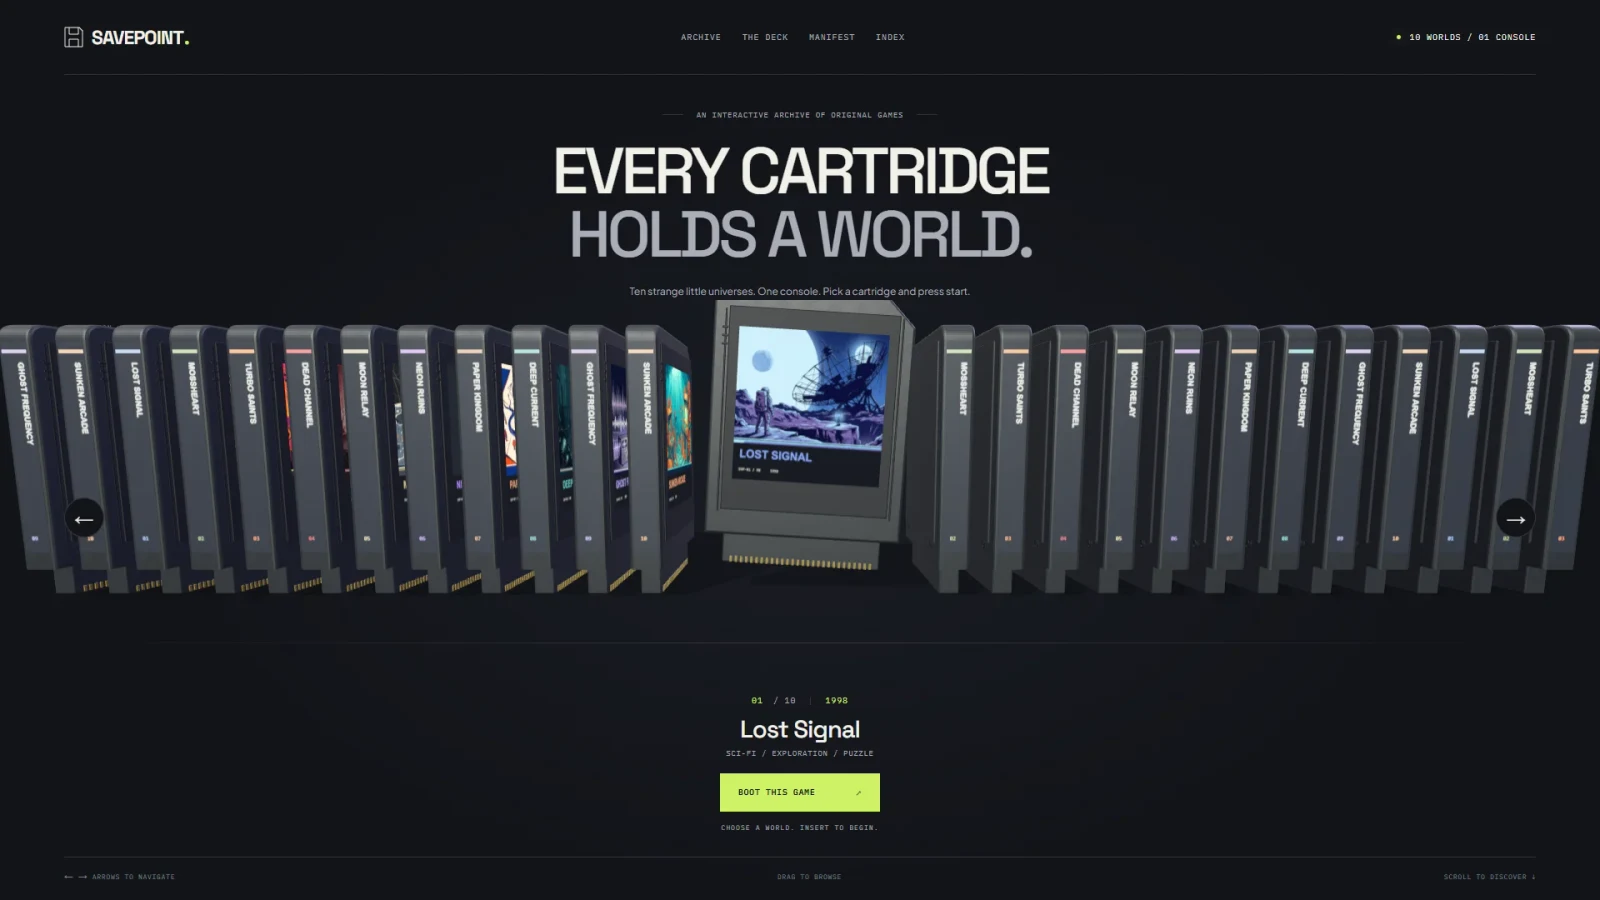
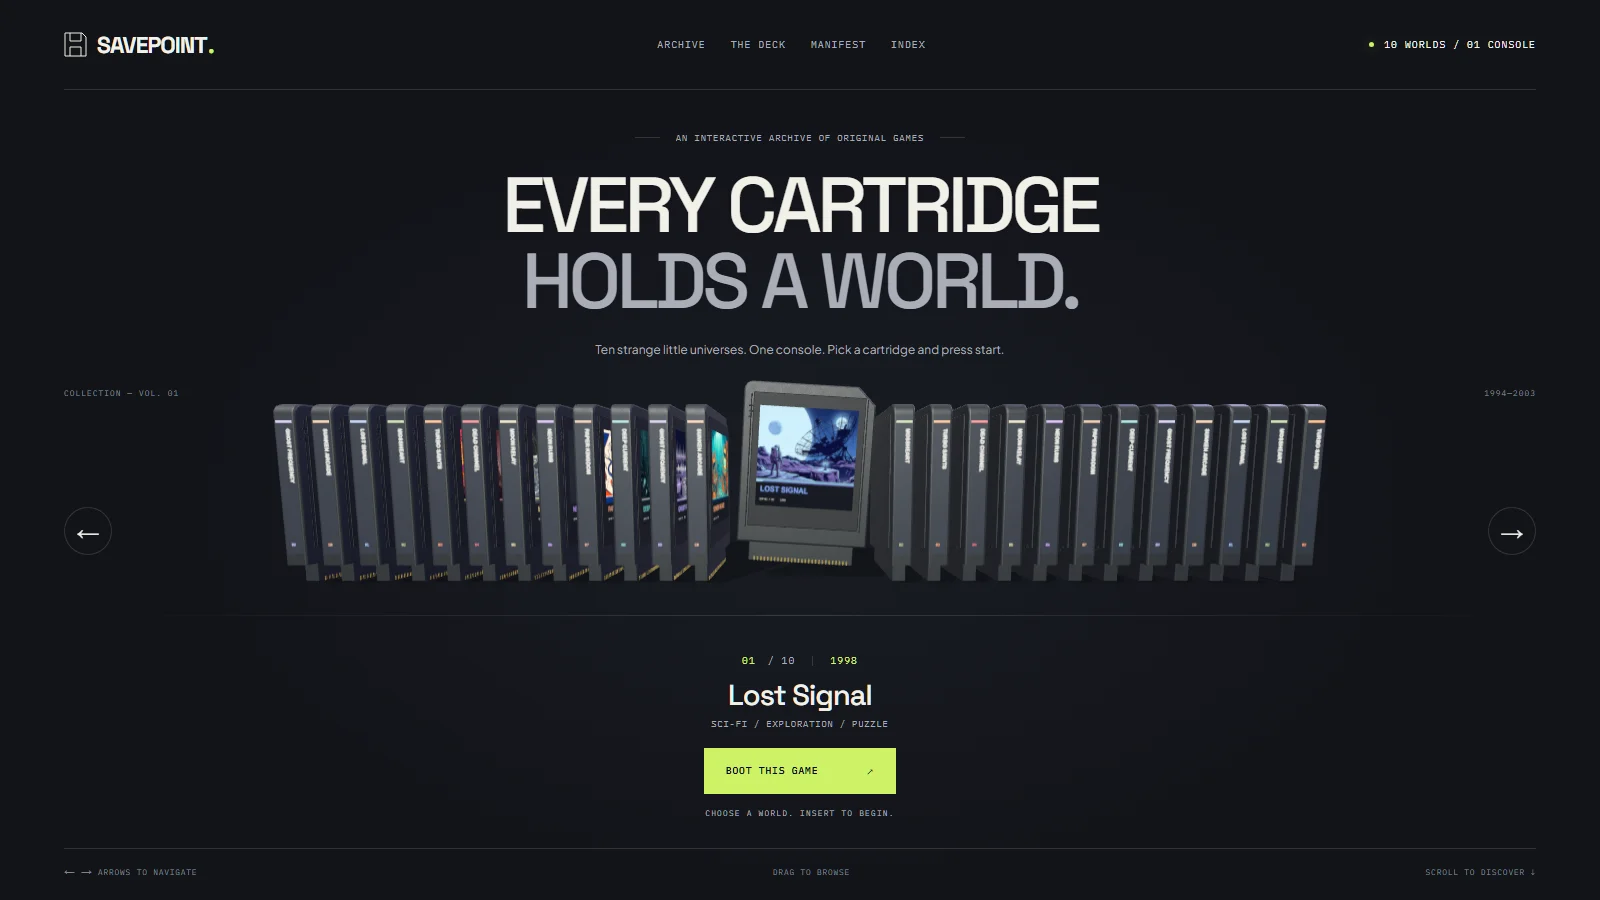
Adjust camera framing and FOV in Savepoint archive scene
Increase desktop camera field of view from 34 to 38 and raise the camera look-at target to improve archive composition. Refresh template preview images and reference documentation to reflect the updated framing.

diff --git a/src/app/(savepoint)/savepoint/lib/archiveSceneEngine.ts b/src/app/(savepoint)/savepoint/lib/archiveSceneEngine.ts
@@ -34,9 +34,9 @@ export function createArchiveScene(canvas: HTMLCanvasElement, onProjection: (rec
     renderer.shadowMap.type = THREE.PCFShadowMap;
     const scene = new THREE.Scene();
     scene.fog = new THREE.Fog(0x121419, 9, 16);
-    const camera = new THREE.PerspectiveCamera(34, 1, .05, 100);
+    const camera = new THREE.PerspectiveCamera(38, 1, .05, 100);
     camera.position.set(0, .85, 3.2);
-    camera.lookAt(0, .52, 0);
+    camera.lookAt(0, .60, 0);
     const environmentGenerator = new THREE.PMREMGenerator(renderer), room = new RoomEnvironment();
     const environment = environmentGenerator.fromScene(room, .04);
     scene.environment = environment.texture;
@@ -137,7 +137,7 @@ export function createArchiveScene(canvas: HTMLCanvasElement, onProjection: (rec
         const r = canvas.getBoundingClientRect();
         renderer.setSize(r.width, r.height, false);
         camera.aspect = r.width / r.height;
-        camera.fov = r.width < 600 ? 45 : 34;
+        camera.fov = r.width < 600 ? 45 : 38;
         camera.updateProjectionMatrix();
         if (phase() === 'screen-expanding' || phase() === 'returning' || phase() === 'game-detail')
             updateProjection(expansion);
@@ -241,7 +241,7 @@ export function createArchiveScene(canvas: HTMLCanvasElement, onProjection: (rec
             timeline = gsap.timeline({ onComplete: () => { deck.group.visible = false; store.getState().setPhase('archive'); rail(); } });
             timeline.to(motion, { p: 1, duration: reduced.matches ? .01 : .55, onUpdate: () => interpolatePose(activeCart.group, from, to, smoothstep01(motion.p)) });
             timeline.to(deck.group.position, { y: -3, duration: .4 }, '<');
-            timeline.to(camera.position, { x: 0, y: .85, z: 3.2, duration: .5, onUpdate: () => camera.lookAt(0, .52, 0) }, '<');
+            timeline.to(camera.position, { x: 0, y: .85, z: 3.2, duration: .5, onUpdate: () => camera.lookAt(0, .60, 0) }, '<');
             if (pushHistory) {
                 const url = new URL(location.href);
                 url.searchParams.delete('game');
@@ -260,7 +260,7 @@ export function createArchiveScene(canvas: HTMLCanvasElement, onProjection: (rec
         const shelf: Pose = { position: new THREE.Vector3(0, .25, .32), quaternion: new THREE.Quaternion().setFromEuler(new THREE.Euler(0, 0, -.061)) };
         timeline.to(motion, { t: 1, duration: reduced.matches ? .01 : .7, onUpdate: () => interpolatePose(activeCart.group, above, shelf, smoothstep01(motion.t)) });
         timeline.to(deck.group.position, { y: -3, duration: .6 }, '<');
-        timeline.to(camera.position, { x: 0, y: .85, z: 3.2, duration: .6, onUpdate: () => camera.lookAt(0, .52, 0) }, '<');
+        timeline.to(camera.position, { x: 0, y: .85, z: 3.2, duration: .6, onUpdate: () => camera.lookAt(0, .60, 0) }, '<');
         const u = new URL(location.href);
         u.searchParams.delete('game');
         if (pushHistory)

diff --git a/public/copy/savepoint.md b/public/copy/savepoint.md
@@ -896,9 +896,9 @@ export function createArchiveScene(canvas: HTMLCanvasElement, onProjection: (rec
     renderer.shadowMap.type = THREE.PCFShadowMap;
     const scene = new THREE.Scene();
     scene.fog = new THREE.Fog(0x121419, 9, 16);
-    const camera = new THREE.PerspectiveCamera(34, 1, .05, 100);
+    const camera = new THREE.PerspectiveCamera(38, 1, .05, 100);
     camera.position.set(0, .85, 3.2);
-    camera.lookAt(0, .52, 0);
+    camera.lookAt(0, .60, 0);
     const environmentGenerator = new THREE.PMREMGenerator(renderer), room = new RoomEnvironment();
     const environment = environmentGenerator.fromScene(room, .04);
     scene.environment = environment.texture;
@@ -999,7 +999,7 @@ export function createArchiveScene(canvas: HTMLCanvasElement, onProjection: (rec
         const r = canvas.getBoundingClientRect();
         renderer.setSize(r.width, r.height, false);
         camera.aspect = r.width / r.height;
-        camera.fov = r.width < 600 ? 45 : 34;
+        camera.fov = r.width < 600 ? 45 : 38;
         camera.updateProjectionMatrix();
         if (phase() === 'screen-expanding' || phase() === 'returning' || phase() === 'game-detail')
             updateProjection(expansion);
@@ -1103,7 +1103,7 @@ export function createArchiveScene(canvas: HTMLCanvasElement, onProjection: (rec
             timeline = gsap.timeline({ onComplete: () => { deck.group.visible = false; store.getState().setPhase('archive'); rail(); } });
             timeline.to(motion, { p: 1, duration: reduced.matches ? .01 : .55, onUpdate: () => interpolatePose(activeCart.group, from, to, smoothstep01(motion.p)) });
             timeline.to(deck.group.position, { y: -3, duration: .4 }, '<');
-            timeline.to(camera.position, { x: 0, y: .85, z: 3.2, duration: .5, onUpdate: () => camera.lookAt(0, .52, 0) }, '<');
+            timeline.to(camera.position, { x: 0, y: .85, z: 3.2, duration: .5, onUpdate: () => camera.lookAt(0, .60, 0) }, '<');
             if (pushHistory) {
                 const url = new URL(location.href);
                 url.searchParams.delete('game');
@@ -1122,7 +1122,7 @@ export function createArchiveScene(canvas: HTMLCanvasElement, onProjection: (rec
         const shelf: Pose = { position: new THREE.Vector3(0, .25, .32), quaternion: new THREE.Quaternion().setFromEuler(new THREE.Euler(0, 0, -.061)) };
         timeline.to(motion, { t: 1, duration: reduced.matches ? .01 : .7, onUpdate: () => interpolatePose(activeCart.group, above, shelf, smoothstep01(motion.t)) });
         timeline.to(deck.group.position, { y: -3, duration: .6 }, '<');
-        timeline.to(camera.position, { x: 0, y: .85, z: 3.2, duration: .6, onUpdate: () => camera.lookAt(0, .52, 0) }, '<');
+        timeline.to(camera.position, { x: 0, y: .85, z: 3.2, duration: .6, onUpdate: () => camera.lookAt(0, .60, 0) }, '<');
         const u = new URL(location.href);
         u.searchParams.delete('game');
         if (pushHistory)
